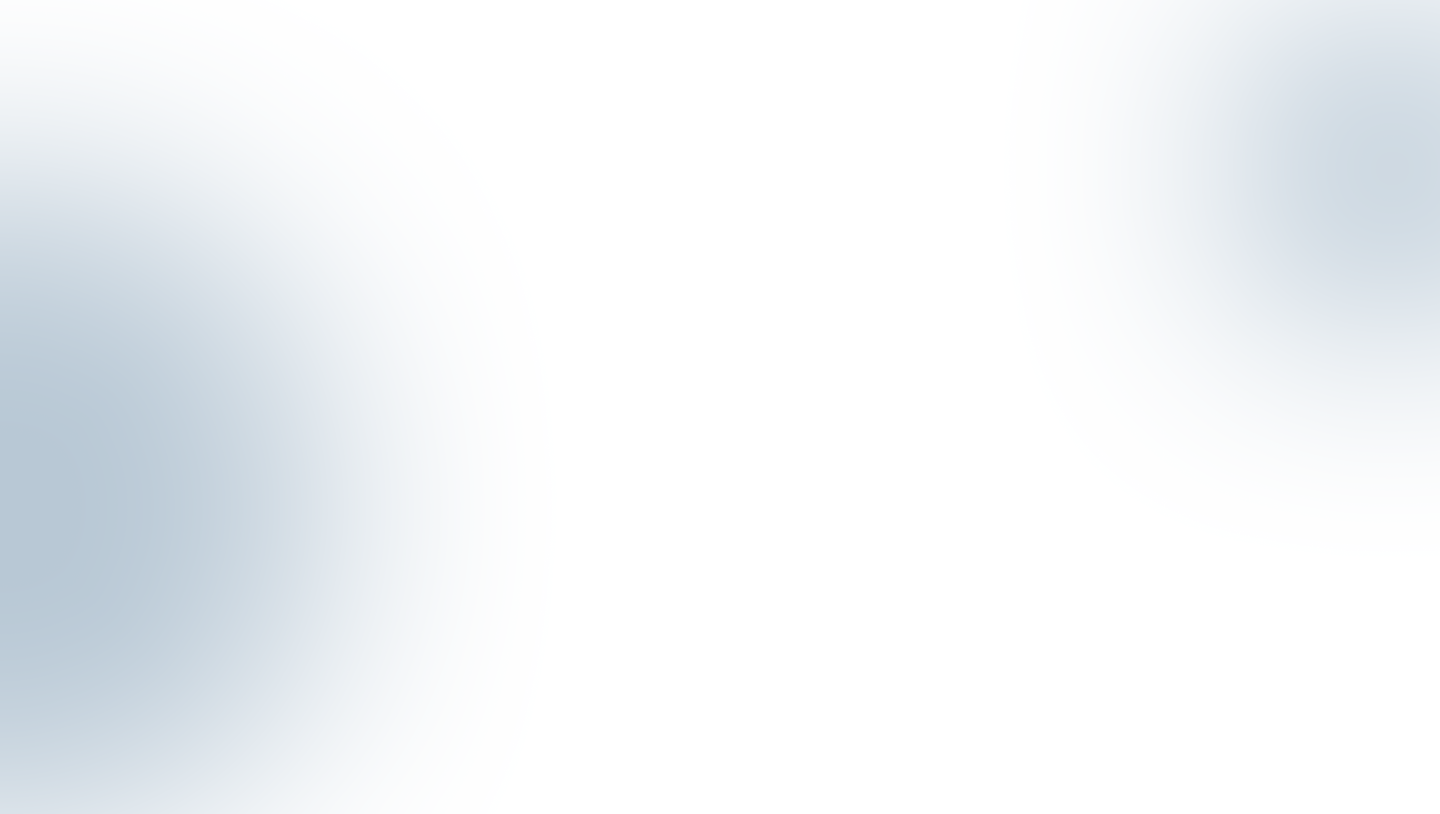
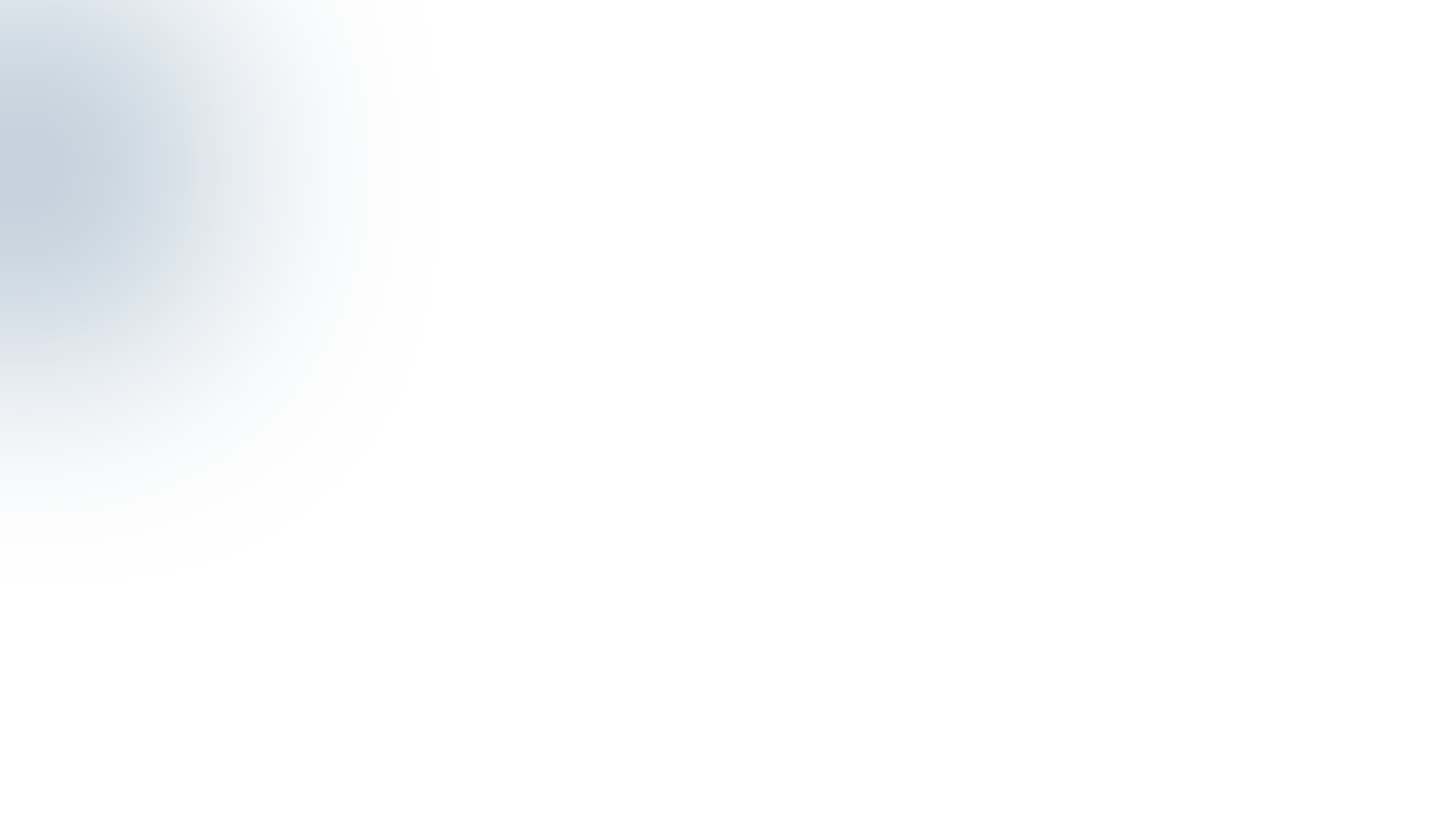
Fix backgrounds

Changed region(s): [[0.0, 0.3686, 0.25, 1.0], [0.8438, 0.0, 1.0, 0.43], [0.0, 0.0, 0.1562, 0.2457]]

diff --git a/app/pages/sign-up.vue b/app/pages/sign-up.vue
@@ -67,8 +67,7 @@ const onSubmit = handleSubmit(async (values) => {
 </script>
 
 <template>
-  <div class="min-h-screen flex flex-col md:flex-row overflow-x-hidden">
-    <!-- Left Form Section -->
+  <div class="min-h-screen flex flex-col md:flex-row overflow-x-hidden scrollbar-hidden">
     <div class="w-full xl:w-1/2 min-h-screen overflow-y-auto flex items-center justify-center px-6 xl:px-12">
       <div class="md:max-w-[700px] w-full flex flex-col items-center gap-12 py-16 px-5 mx-auto">
         <div class="flex flex-col items-center text-center gap-6">
@@ -171,14 +170,13 @@ const onSubmit = handleSubmit(async (values) => {
       </div>
     </div>
 
-    <!-- Right Image Section -->
     <div
       class="hidden xl:flex xl:w-1/2 min-h-screen bg-cover bg-center bg-[url('/images/login-desktop-bg.png')] relative items-center justify-center"
     >
       <NuxtImg
         src="/images/MacBook-Pro.png"
         alt="Dashboard Preview"
-        class="w-full h-auto relative left-[25%] scale-[1.9] object-contain"
+        class="w-full h-auto relative left-[25%] scale-[1.5] object-contain "
       />
     </div>
   </div>

diff --git a/app/pages/contact.vue b/app/pages/contact.vue
@@ -124,9 +124,9 @@ const onSubmit = handleSubmit(values => {
   </div>
 
   <div
-    class="flex flex-col-reverse items-center justify-center gap-8 lg:flex-row lg:items-center lg:gap-21 px-5 lg:px-30 py-25 bg-[url('/images/contact-mob-bg.png')]    
+    class="flex flex-col-reverse items-center justify-center gap-8 lg:flex-row lg:items-center lg:gap-21 px-5 lg:px-30 py-25 bg-[url('/images/contact-map-mob-bg.png')]    
     md:bg-[url('/images/contact-tablet-bg.png')] 
-    lg:bg-[url('/images/contact-bg.png')]       
+    lg:bg-[url('/images/contact-map-bg.png')]       
     bg-cover bg-center"
   >
     <div class="max-w-[658px] lg:max-w-[689px] w-full flex flex-col items-center gap-8">

diff --git a/app/assets/css/main.css b/app/assets/css/main.css
@@ -26,6 +26,16 @@
   height: 8px !important;
   border-radius: 26px !important;
 }
+
+.scrollbar-hidden {
+  -ms-overflow-style: none;  
+  scrollbar-width: none;    
+}
+
+.scrollbar-hidden::-webkit-scrollbar {
+  display: none; 
+}
+
 @media (max-width:490px){
    .xs-col{
     display: flex;
